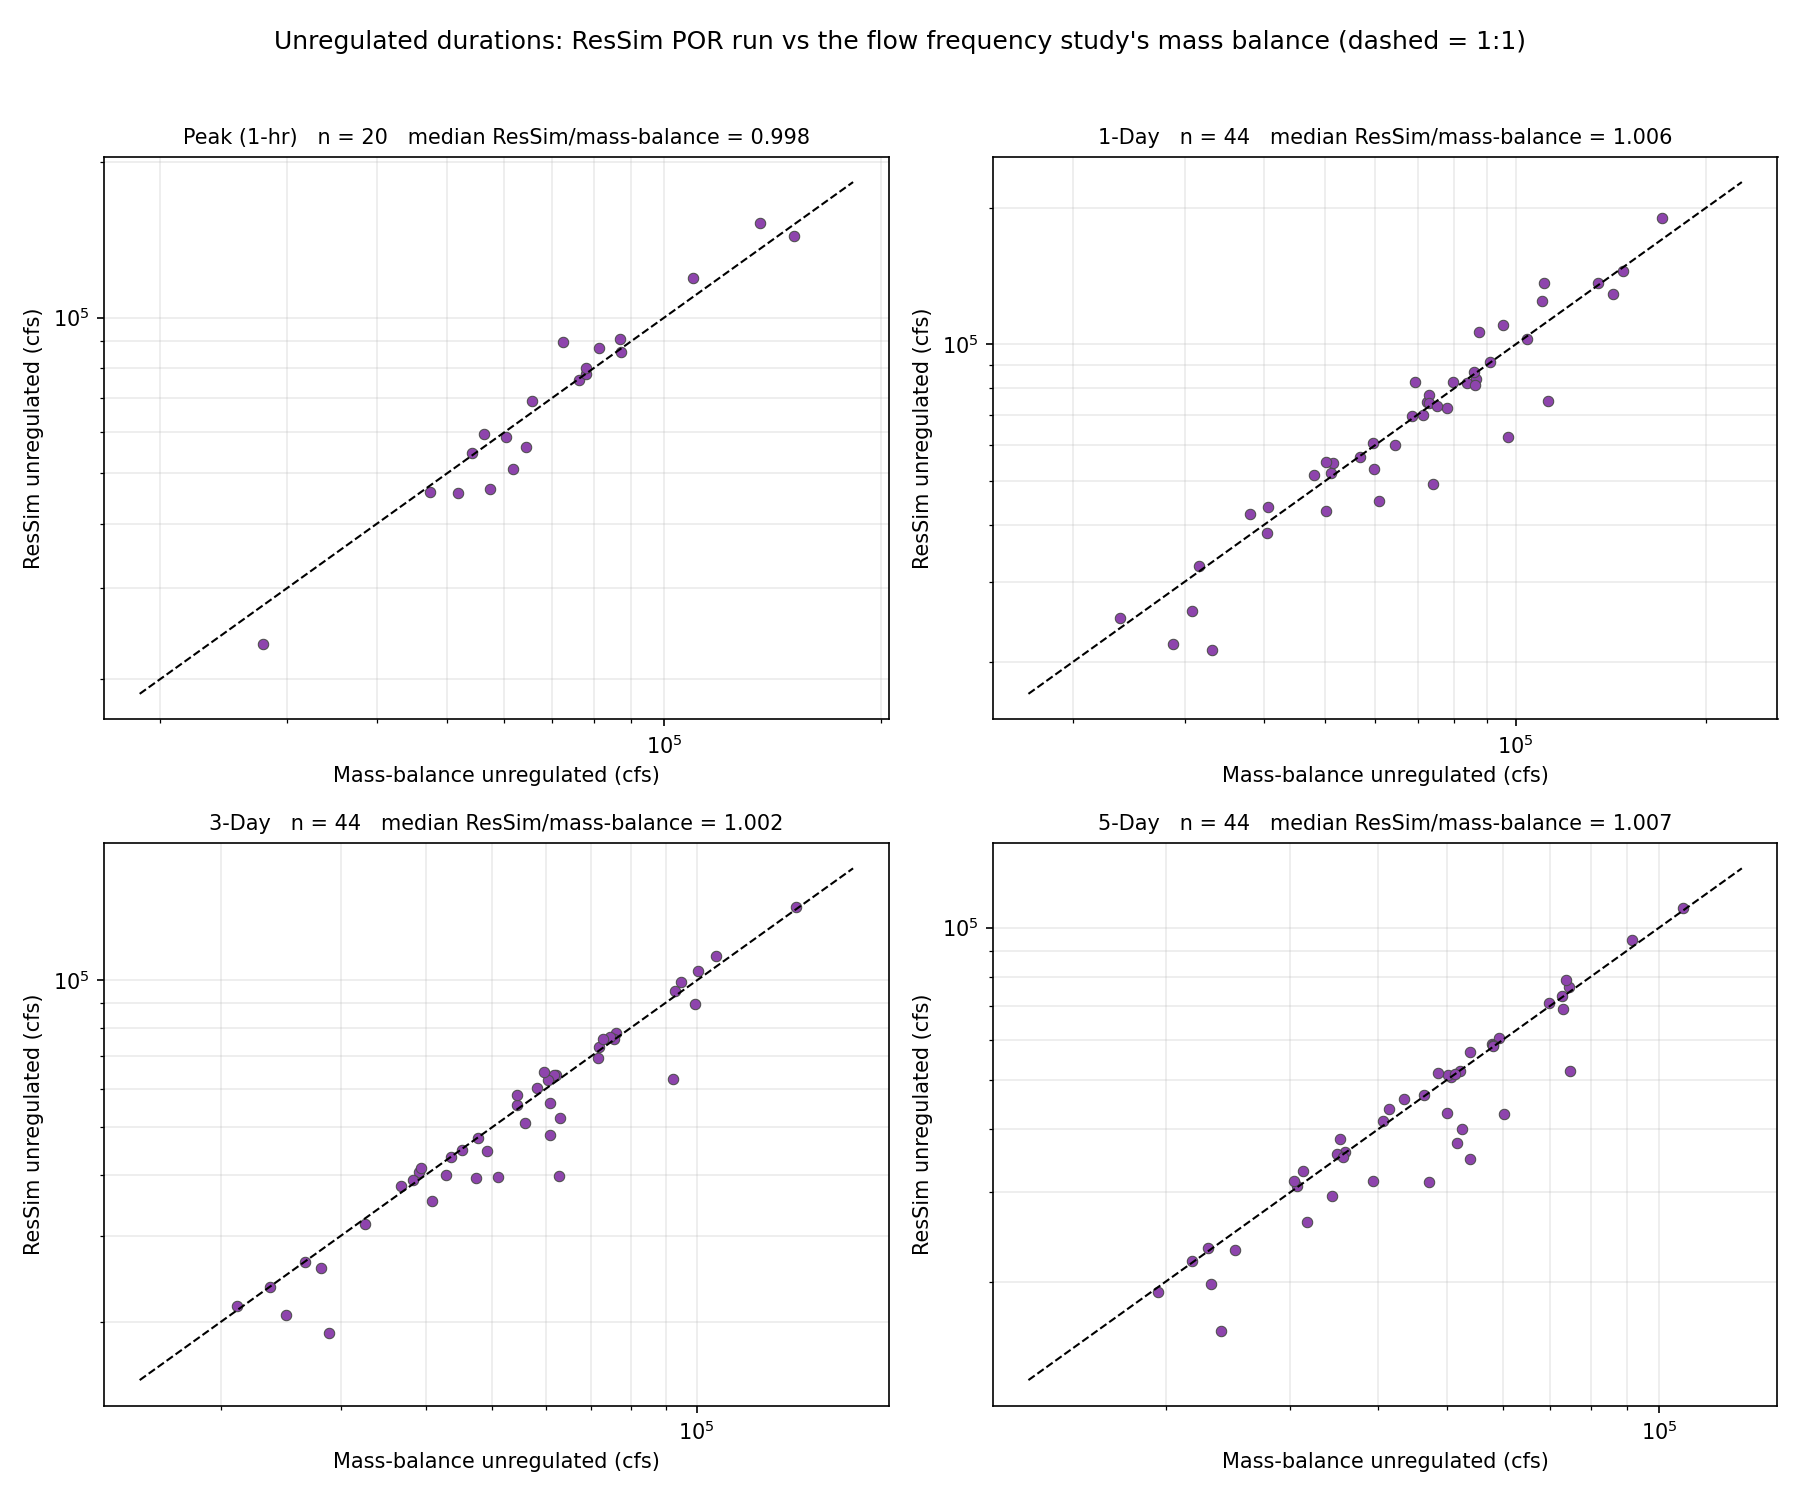
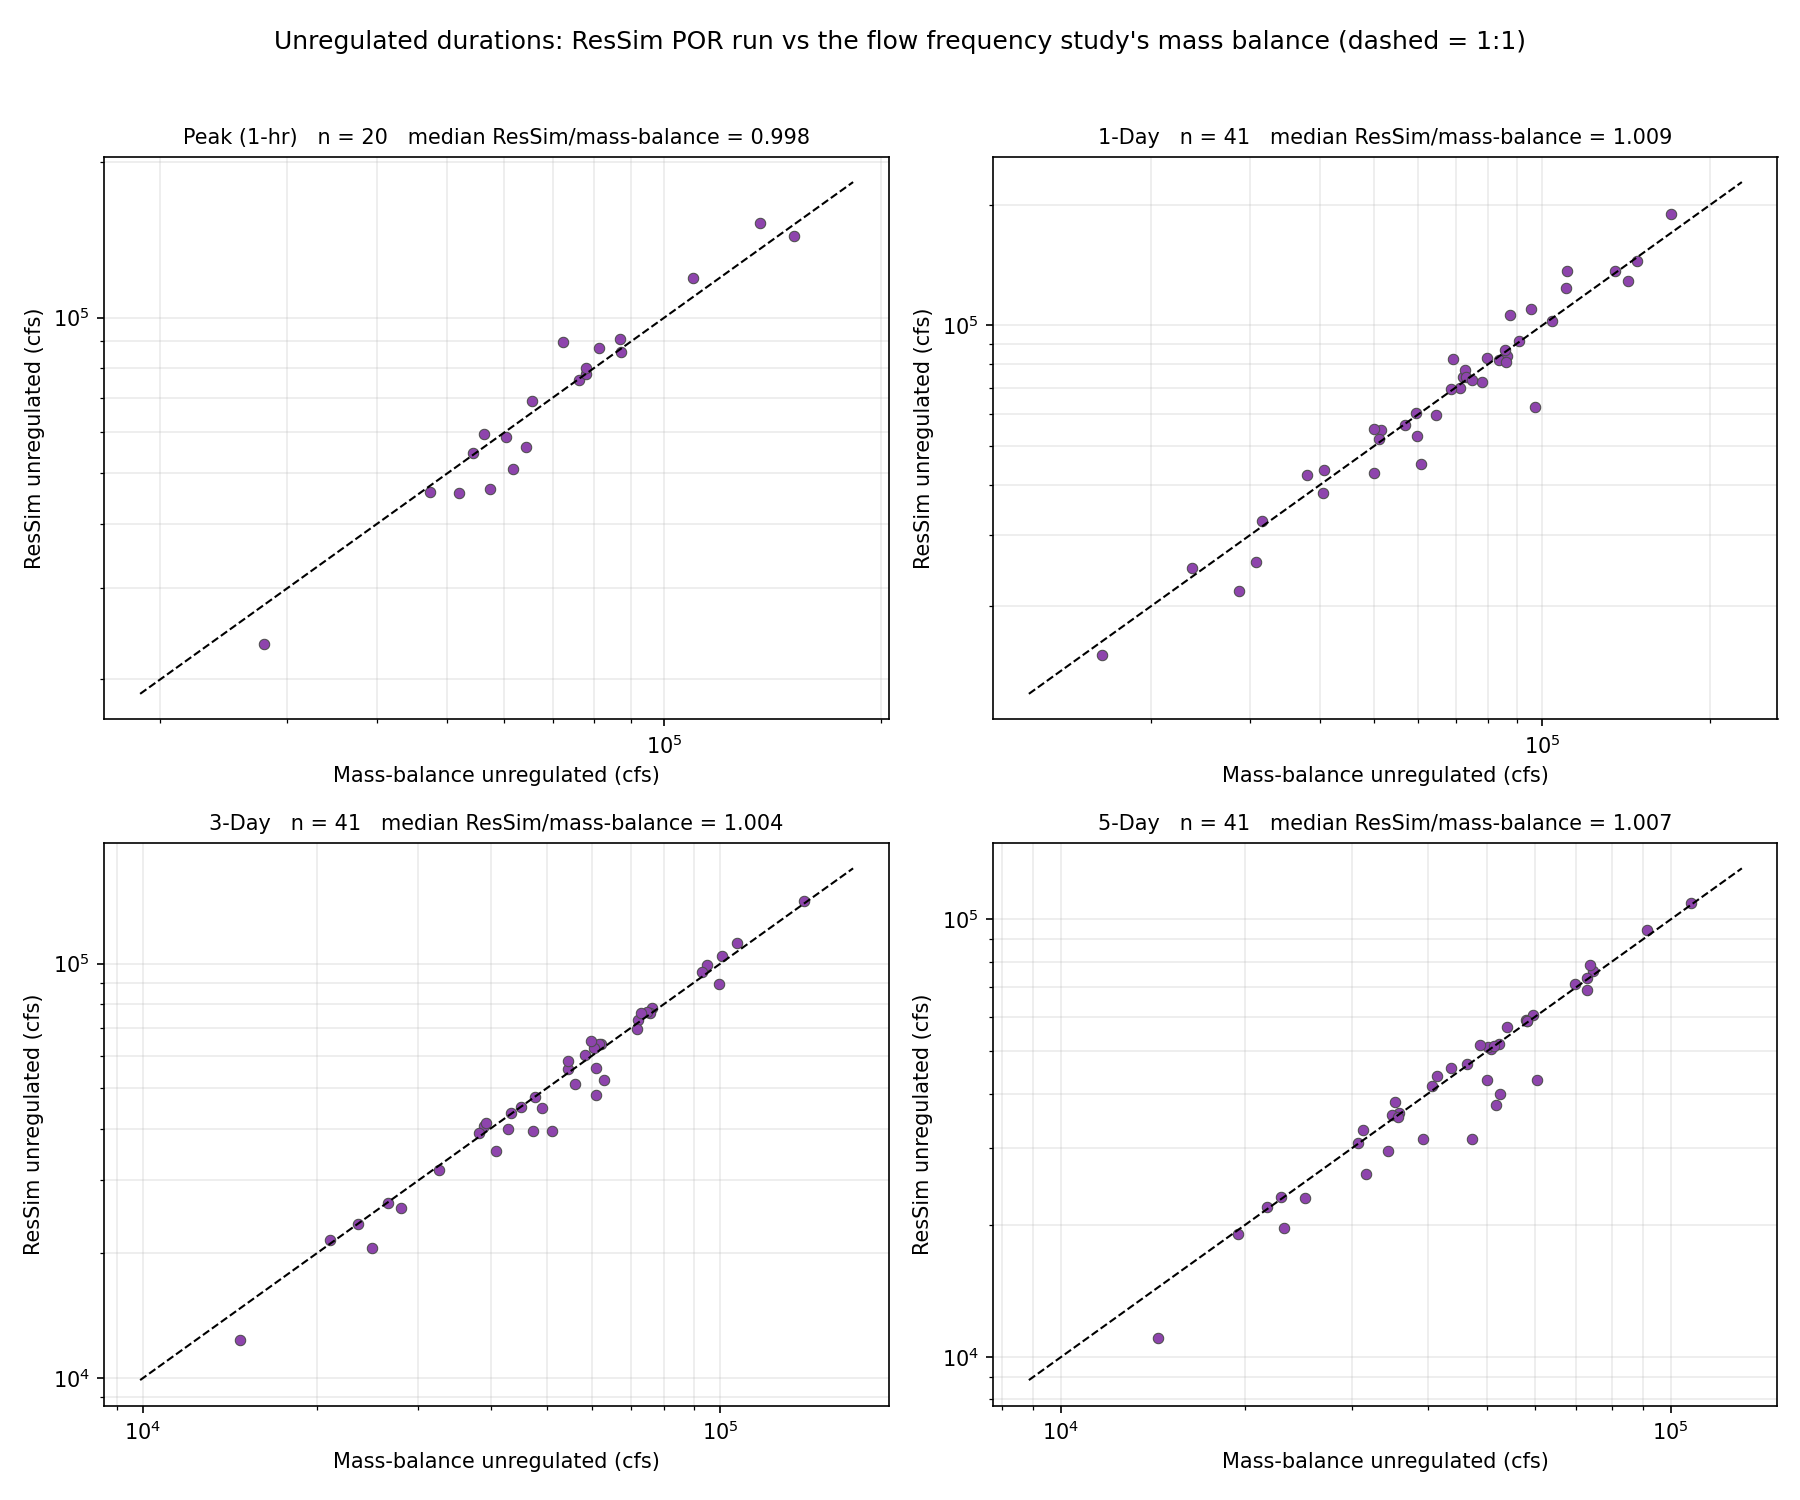
added instructions for consistancy review

diff --git a/CAS_Reg_Unreg/docs/Consistency_Review_2026-09-03.md b/CAS_Reg_Unreg/docs/Consistency_Review_2026-09-03.md
@@ -47,6 +47,8 @@ Either flip the Appendix B column order, or head those two columns
 "Upper confidence limit" and "Lower confidence limit" and say once that HEC-SSP
 numbers them by exceedance probability.
 
+Response: Switch the column headers in Appendix B. Remove the word limit, so jsut 5% and 95%.
+
 ### A2. Section 5.7 describes a method the equations and the code do not use
 
 The prose says:
@@ -76,6 +78,8 @@ The equations are right and the sentence is wrong, so this is a prose fix, not a
 recomputation. It matters because that sentence is the one a reviewer would use
 to reproduce the band.
 
+Response:  If the equation is correct I think I can leave it and remove the description and let the equations do the talking. 
+
 ### A3. The Lower5 equation adds where it should subtract
 
     Upper95 = RegBest + sqrt((Unreg95 - UnregBest)^2 + (Reg95 - RegBest)^2)
@@ -86,6 +90,8 @@ superscripts, so the reviewer's comment on that is resolved. But the second one
 carries a plus. As written the lower limit is above the best estimate. The code
 is `reg_lower = reg_curve - delta_lo`, so the sign should be a minus. The
 numbers in the tables are correct, only the printed equation is wrong.
+
+Response: Change the sign to a minus.
 
 ### A4. Table 5-2 and Figure 5-4 were never re-run after the screening was tightened
 
@@ -117,6 +123,7 @@ still ranks first and the numbers improve slightly:
 So the adopted duration is safe. Re-run `#Critical_Duration_Adjusted.py` and
 refresh Table 5-2, Figure 5-4, and the n in the caption.
 
+I re-ran te script. I'm not getting the same stats as you put in here. Check that, and update teh memo.
 ---
 
 ## B. Should fix
@@ -143,17 +150,23 @@ different size, and `figures_combined/regression_2day.png` is a hand renamed
 copy of something else. The memo figure is right and unreproducible, which is
 the worse half of this problem.
 
+Response: This stuff doesn't matter I don't think. If the figures with the truncated x axis are in teh folder, add replace them. If not, just leave what's there. If it's not wrong, it's not worth chancing introducing an error.
+
 ### B2. The Figure 5-5 caption no longer describes the figure
 
 Caption: "The twelve observed source storms, unscaled and aligned on each
 storm's own peak." The figure now plots days into the member window, 0 to 30,
 with no peak alignment. Drop the last clause.
 
+Response: Drop the last clause.
+
 ### B3. The title inside Figure 5-5 contradicts its caption
 
 The image is titled "Synthetic source storms, unscaled". These are the observed
 hydrographs the synthetics are built from, which is what the caption below
 correctly says. Change the title in `#Create_Synthetic_Ensembles.py`.
+
+Response: Synthetic source storms are the source storms used to build synthetics. If this is confusing, rename to "Source storms, unscaled"
 
 ### B4. Table 7-2 does not match the current timing output
 
@@ -163,6 +176,8 @@ correctly says. Change the title in `#Create_Synthetic_Ensembles.py`.
 Two events have left the record since the table was built. Section 7.3 also
 says 78 events in the text. The adopted 0.80 factor is unaffected, since the
 all-events median is 0.79 either way.
+
+Response: fix.
 
 ### B5 to B8. The DQC memo
 
@@ -180,6 +195,7 @@ all-events median is 0.79 either way.
   detail request and the uncertainty band clipping. Both were acted on. For a
   final they need the reviewer's close out.
 
+Response: Ignore
 ---
 
 ## C. Editorial
@@ -187,18 +203,38 @@ all-events median is 0.79 either way.
 - The filenames read `2026_03_09` while both documents are dated 3 September
   2026, which is `09/03/2026` in the memo header. Anyone sorting by filename
   will read them as 9 March.
+  
+  Response: I will fix
+  
 - Four semicolons remain in body prose, in Section 4.8, the Figure 5-6 caption,
   the Appendix A note and the Appendix E note. One em dash is used as
   punctuation in Section 5, "flood risk management—it is also operated".
+  
+  Response: Leave it
+  
 - Section 5.1: "shown in table 5-1 ." Lowercase table, and a space before the
   period.
+  
+  # Response: Fix it
+  
 - Section 5.1: "but some it is likely the project would increase releases" is
   garbled.
+  
+  # Response: Remove "some"
+  
 - Section 5.1: "lead to reasonable validation" should be "led".
+  # Response: Fix it
+	
 - Section 4.7: "Ten values across nine water years were raised ," has a space
   before the comma.
+  
+  # Response: Fix it
+  
 - Section 5.2 mixes number styles in three consecutive sentences: "Thirty-six",
   "Ten", then "5 years received no adjustment, 4 where".
+  
+  # Response: Leave it
+  
 
 ---
 
@@ -253,3 +289,5 @@ shifted in the mid 1970s. It may be the reconstruction running high. The
 frequency curve is fitted across the join either way, so if any part of the
 step is method bias it propagates into every result in the memo. This is not a
 finding, it is a question worth an answer before the next review.
+
+# Response: Ignore it
